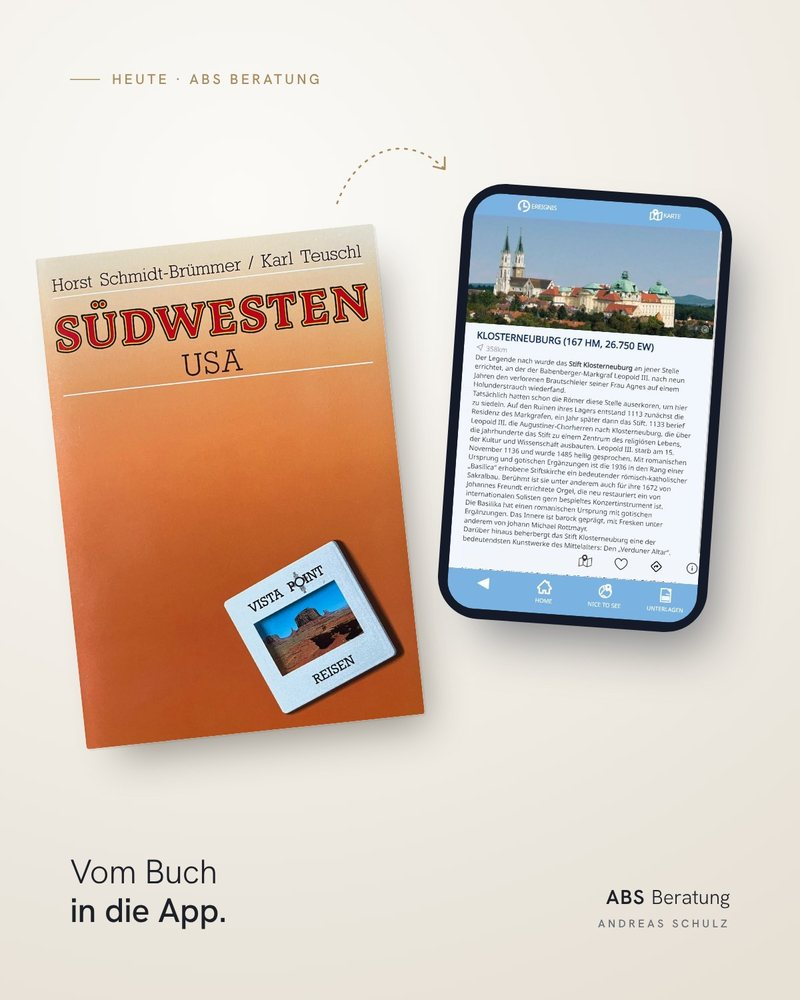
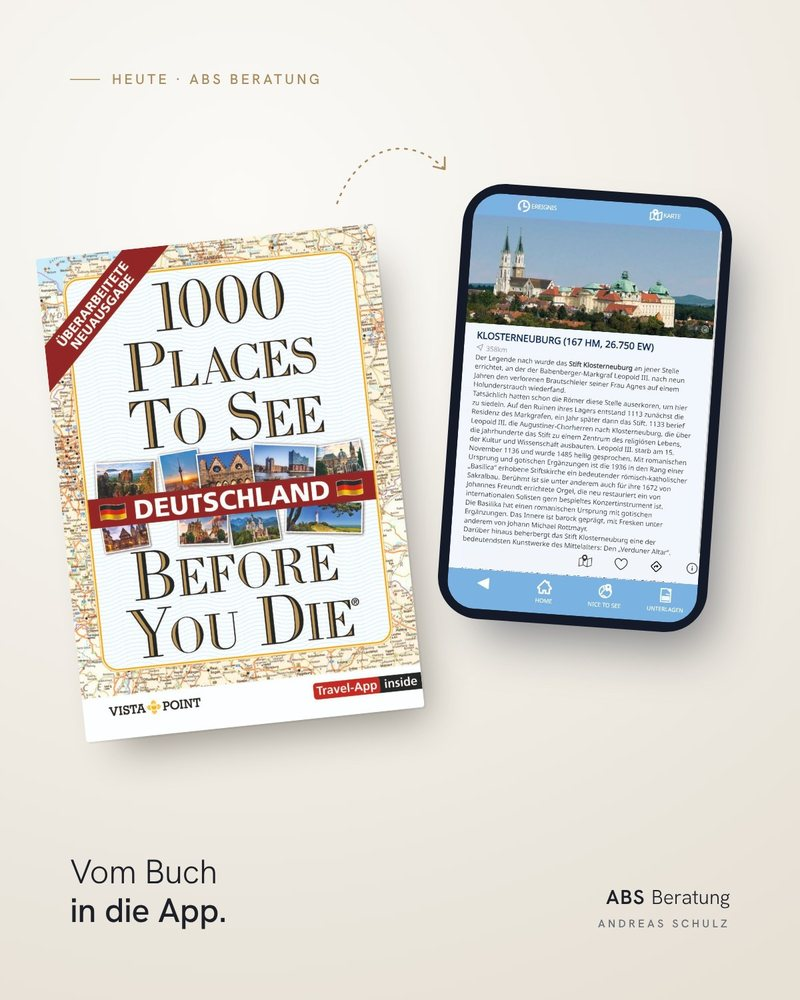
Zeitleiste: Heute-Grafik mit 1000 Places Deutschland (noch nicht veröffentlicht)
Claude-Session: https://claude.ai/code/session_01ESu8zuULvguVg3cWirSz4a

Changed region(s): [[0.0312, 0.217, 0.5312, 0.775]]

diff --git a/index.html b/index.html
@@ -662,7 +662,7 @@ footer a:hover{color:var(--ink)}
     {y:'1994', t:'Partner von DERTOUR', p:'Erster Kontakt auf der ITB, daraus über 23 Jahre Premium-Partnerschaft. „Travel the book“ lief in 23 Katalogen.'},
     {y:'2015', img:'img/tl-2015.jpg', pos:'50% 35%', cap:'', alt:'Andreas Schulz mit zwei Gesprächspartnerinnen', t:'1000 Places to see before you die', p:'Der Weltbestseller kommt zu Vista Point. Über drei Millionen verkaufte Exemplare im deutschsprachigen Raum.'},
     {y:'2020', img:'img/tl-2020.jpg', fit:'contain', cap:'Reiseführer-Inhalt in der App: Klosterneuburg entlang der Donau-Route', alt:'App-Ansicht mit Reiseführer-Text und Foto zu Klosterneuburg', t:'TourCont AG', p:'Gründung in München mit Markus Schreiber und Klaus Weise, Kollegen aus der Softwareentwicklung. Digitalisierte Verlagsinhalte fließen direkt in Reise-Apps wie „FRED“ von Donau Touristik.'},
-    {y:'Heute', img:'img/tl-heute.jpg', cap:'', alt:'Grafik: Vista-Point-Reiseführer und Reise-App, verbunden mit einem Pfeil, Vom Buch in die App', t:'ABS Beratung', p:'Strategische Beratung für Verlage, Reiseunternehmen und Technologiepartner.'}
+    {y:'Heute', img:'img/tl-heute.jpg', cap:'', alt:'Grafik: 1000 Places To See Before You Die Deutschland und Reise-App, verbunden mit einem Pfeil, Vom Buch in die App', t:'ABS Beratung', p:'Strategische Beratung für Verlage, Reiseunternehmen und Technologiepartner.'}
   ];
   var yearsEl = document.getElementById('years'), card = document.getElementById('tl-card');
   var fill = document.getElementById('bar-fill'), prog = document.getElementById('tl-progress');
